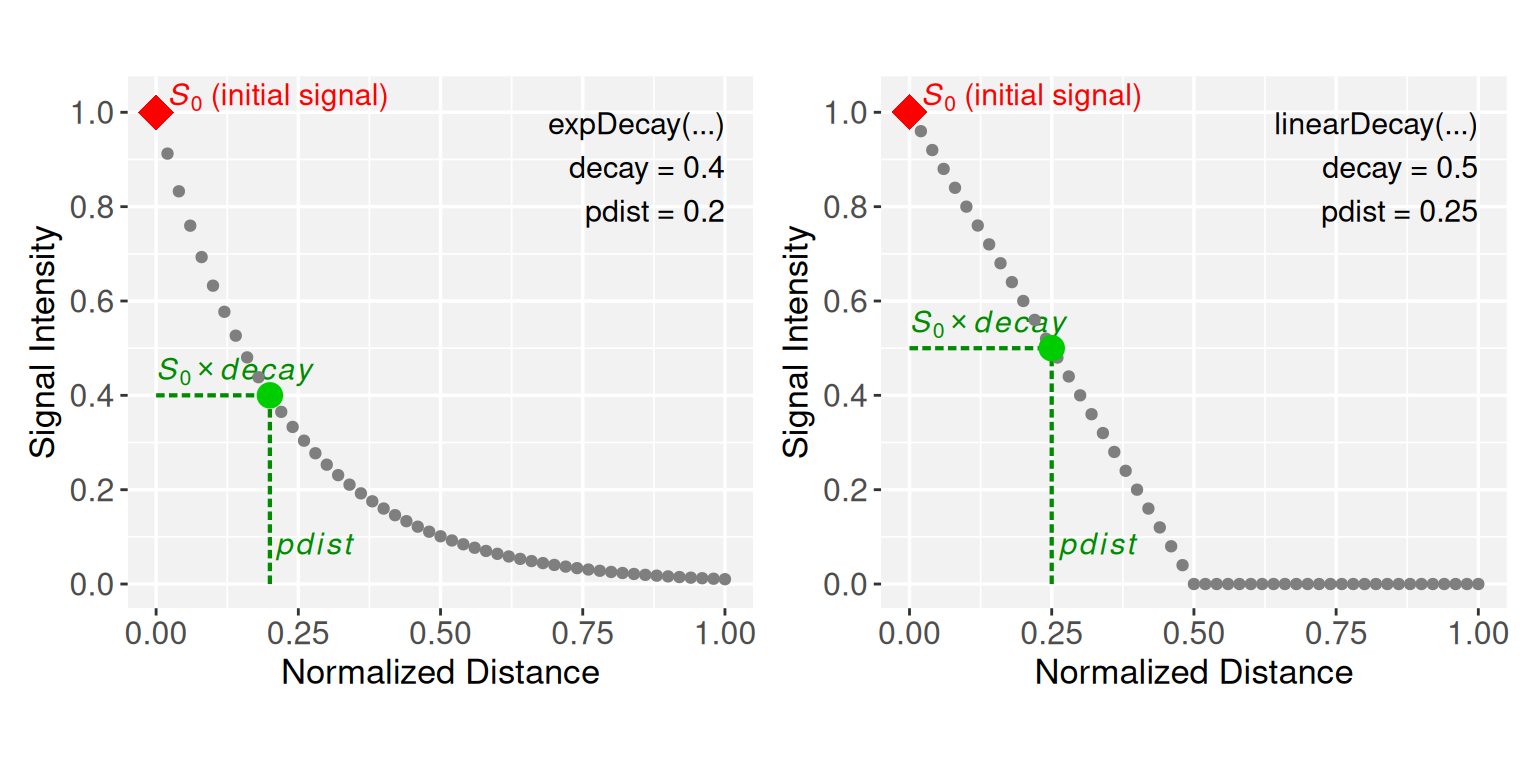
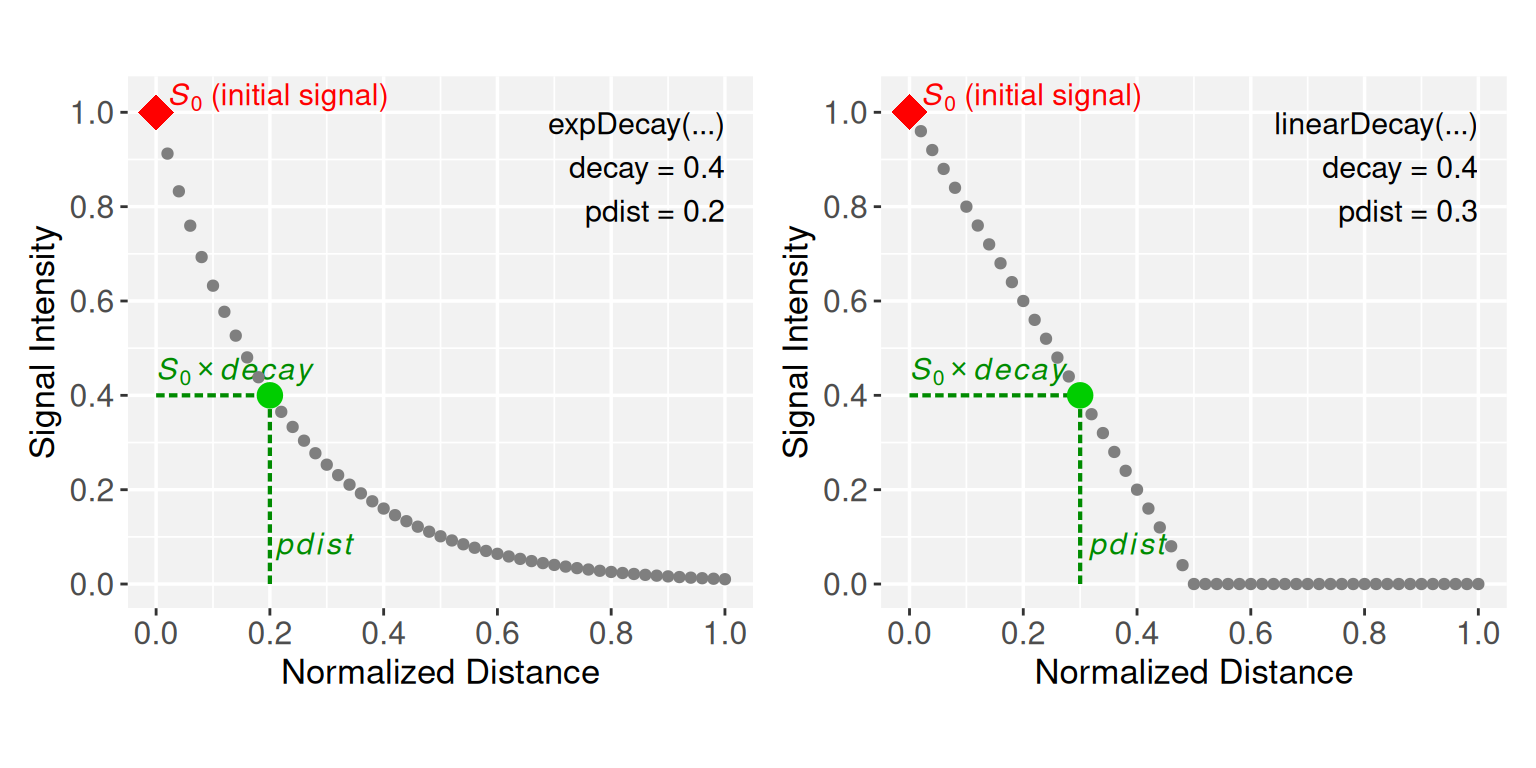
regular maintenance

diff --git a/modeling-signal-decay.html b/modeling-signal-decay.html
@@ -11,7 +11,7 @@
 
 <meta name="author" content="Sysbiolab Team" />
 
-<meta name="date" content="2025-10-18" />
+<meta name="date" content="2025-10-21" />
 
 <title>Modeling signal decay functions</title>
 
@@ -372,7 +372,7 @@ div.tocify {
 
 <h1 class="title toc-ignore">Modeling signal decay functions</h1>
 <h4 class="author">Sysbiolab Team</h4>
-<h4 class="date">2025-10-18</h4>
+<h4 class="date">2025-10-21</h4>
 
 </div>
 
@@ -486,7 +486,7 @@ returns a decay function with customized parameters.</p>
 ##     y &lt;- signal * 0.25^((x/0.75)^2)
 ##     return(y)
 ## }
-## &lt;environment: 0x60fd9e7f98c0&gt;
+## &lt;environment: 0x61ad4f6ceb38&gt;
 ## attr(,&quot;name&quot;)
 ## [1] &quot;weibullDecay&quot;</code></pre>
 <p></br></p>
@@ -494,13 +494,13 @@ returns a decay function with customized parameters.</p>
 attenuation, rerun the <code>weibullDecay()</code> constructor with
 <code>plot = TRUE</code>.</p>
 <pre class="r"><code># Run Weibull constructor with decay = 0.5, shape = 1, and pdist = 0.25
-p1 &lt;- weibullDecay(decay = 0.5, shape = 1, pdist = 0.25, plot = TRUE)
+p1 &lt;- weibullDecay(decay = 0.4, shape = 1, pdist = 0.2, plot = TRUE)
 
 # Run Weibull constructor with decay = 0.5, shape = 2, and pdist = 0.50
-p2 &lt;- weibullDecay(decay = 0.5, shape = 2, pdist = 0.50, plot = TRUE)
+p2 &lt;- weibullDecay(decay = 0.4, shape = 2, pdist = 0.4, plot = TRUE)
 
 # Run Weibull constructor with decay = 0.25, shape = 3, and pdist = 0.75
-p3 &lt;- weibullDecay(decay = 0.25, shape = 4, pdist = 0.75, plot = TRUE)
+p3 &lt;- weibullDecay(decay = 0.2, shape = 4, pdist = 0.8, plot = TRUE)
 
 p1 + p2 + p3</code></pre>
 <p><img src="modeling-signal-decay_files/figure-html/Creating%20a%20decay%20function%20-%204.2-1.png" width="100%" /></p>
@@ -522,7 +522,7 @@ increasingly sigmoidal.</p>
 p1 &lt;- expDecay(decay = 0.4, pdist = 0.2, plot = TRUE)
 
 # Run the linearDecay constructor with decay = 0.5,and pdist = 0.25
-p2 &lt;- linearDecay(decay = 0.5, pdist = 0.25, plot = TRUE)
+p2 &lt;- linearDecay(decay = 0.4, pdist = 0.3, plot = TRUE)
 
 p1 + p2</code></pre>
 <p><img src="modeling-signal-decay_files/figure-html/Creating%20a%20decay%20function%20-%204.3-1.png" width="100%" /></p>
@@ -602,7 +602,7 @@ plotPathwaySpace(ps, marks = &quot;n34&quot;)</code></pre>
 ## other attached packages:
 ## [1] patchwork_1.3.2      igraph_2.2.0         SpotSpace_0.0.2     
 ## [4] PathwaySpace_1.0.3.1 RGraphSpace_1.1.0    ggplot2_4.0.0.9000  
-## [7] remotes_2.5.0        bs4cards_0.1.1      
+## [7] remotes_2.5.0       
 ## 
 ## loaded via a namespace (and not attached):
 ##   [1] deldir_2.0-4           pbapply_1.7-4          gridExtra_2.3         
@@ -610,40 +610,39 @@ plotPathwaySpace(ps, marks = &quot;n34&quot;)</code></pre>
 ##   [7] spatstat.geom_3.6-0    matrixStats_1.5.0      ggridges_0.5.7        
 ##  [10] compiler_4.5.1         png_0.1-8              vctrs_0.6.5           
 ##  [13] reshape2_1.4.4         stringr_1.5.2          pkgconfig_2.0.3       
-##  [16] fastmap_1.2.0          labeling_0.4.3         fontawesome_0.5.3     
-##  [19] promises_1.3.3         rmarkdown_2.30         purrr_1.1.0           
-##  [22] xfun_0.53              cachem_1.1.0           jsonlite_2.0.0        
-##  [25] goftest_1.2-3          later_1.4.4            spatstat.utils_3.2-0  
-##  [28] irlba_2.3.5.1          parallel_4.5.1         cluster_2.1.8.1       
-##  [31] R6_2.6.1               ica_1.0-3              spatstat.data_3.1-8   
-##  [34] stringi_1.8.7          bslib_0.9.0            RColorBrewer_1.1-3    
-##  [37] reticulate_1.43.0      spatstat.univar_3.1-4  parallelly_1.45.1     
-##  [40] lmtest_0.9-40          jquerylib_0.1.4        scattermore_1.2       
-##  [43] Rcpp_1.1.0             knitr_1.50             tensor_1.5.1          
-##  [46] future.apply_1.20.0    zoo_1.8-14             sctransform_0.4.2     
-##  [49] httpuv_1.6.16          Matrix_1.7-4           splines_4.5.1         
-##  [52] tidyselect_1.2.1       abind_1.4-8            rstudioapi_0.17.1     
-##  [55] yaml_2.3.10            spatstat.random_3.4-2  spatstat.explore_3.5-3
-##  [58] codetools_0.2-20       miniUI_0.1.2           listenv_0.9.1         
-##  [61] lattice_0.22-5         tibble_3.3.0           plyr_1.8.9            
-##  [64] shiny_1.11.1           withr_3.0.2            S7_0.2.0              
-##  [67] ROCR_1.0-11            evaluate_1.0.5         Rtsne_0.17            
-##  [70] future_1.67.0          fastDummies_1.7.5      survival_3.8-3        
-##  [73] polyclip_1.10-7        fitdistrplus_1.2-4     pillar_1.11.1         
-##  [76] Seurat_5.3.1.9999      KernSmooth_2.23-26     plotly_4.11.0         
-##  [79] generics_0.1.4         RcppHNSW_0.6.0         sp_2.2-0              
-##  [82] scales_1.4.0           globals_0.18.0         xtable_1.8-4          
-##  [85] glue_1.8.0             lazyeval_0.2.2         tools_4.5.1           
-##  [88] data.table_1.17.8      RSpectra_0.16-2        RANN_2.6.2            
-##  [91] fs_1.6.6               dotCall64_1.2          cowplot_1.2.0         
-##  [94] grid_4.5.1             tidyr_1.3.1            nlme_3.1-168          
-##  [97] cli_3.6.5              spatstat.sparse_3.1-0  spam_2.11-1           
-## [100] viridisLite_0.4.2      dplyr_1.1.4            uwot_0.2.3            
-## [103] gtable_0.3.6           sass_0.4.10            digest_0.6.37         
-## [106] progressr_0.17.0       ggrepel_0.9.6          htmlwidgets_1.6.4     
-## [109] SeuratObject_5.2.0     farver_2.1.2           htmltools_0.5.8.1     
-## [112] lifecycle_1.0.4        httr_1.4.7             mime_0.13             
-## [115] MASS_7.3-65</code></pre>
+##  [16] fastmap_1.2.0          promises_1.3.3         rmarkdown_2.30        
+##  [19] purrr_1.1.0            xfun_0.53              cachem_1.1.0          
+##  [22] jsonlite_2.0.0         goftest_1.2-3          later_1.4.4           
+##  [25] spatstat.utils_3.2-0   irlba_2.3.5.1          parallel_4.5.1        
+##  [28] cluster_2.1.8.1        R6_2.6.1               ica_1.0-3             
+##  [31] spatstat.data_3.1-8    bslib_0.9.0            stringi_1.8.7         
+##  [34] RColorBrewer_1.1-3     reticulate_1.43.0      spatstat.univar_3.1-4 
+##  [37] parallelly_1.45.1      lmtest_0.9-40          jquerylib_0.1.4       
+##  [40] scattermore_1.2        Rcpp_1.1.0             knitr_1.50            
+##  [43] tensor_1.5.1           future.apply_1.20.0    zoo_1.8-14            
+##  [46] sctransform_0.4.2      httpuv_1.6.16          Matrix_1.7-4          
+##  [49] splines_4.5.1          tidyselect_1.2.1       abind_1.4-8           
+##  [52] rstudioapi_0.17.1      yaml_2.3.10            spatstat.random_3.4-2 
+##  [55] codetools_0.2-20       miniUI_0.1.2           spatstat.explore_3.5-3
+##  [58] listenv_0.9.1          lattice_0.22-5         tibble_3.3.0          
+##  [61] plyr_1.8.9             shiny_1.11.1           withr_3.0.2           
+##  [64] S7_0.2.0               ROCR_1.0-11            evaluate_1.0.5        
+##  [67] Rtsne_0.17             future_1.67.0          fastDummies_1.7.5     
+##  [70] survival_3.8-3         polyclip_1.10-7        fitdistrplus_1.2-4    
+##  [73] pillar_1.11.1          Seurat_5.3.1.9999      KernSmooth_2.23-26    
+##  [76] plotly_4.11.0          generics_0.1.4         RcppHNSW_0.6.0        
+##  [79] sp_2.2-0               scales_1.4.0           globals_0.18.0        
+##  [82] xtable_1.8-4           glue_1.8.0             lazyeval_0.2.2        
+##  [85] tools_4.5.1            data.table_1.17.8      RSpectra_0.16-2       
+##  [88] RANN_2.6.2             dotCall64_1.2          cowplot_1.2.0         
+##  [91] grid_4.5.1             tidyr_1.3.1            nlme_3.1-168          
+##  [94] cli_3.6.5              spatstat.sparse_3.1-0  spam_2.11-1           
+##  [97] viridisLite_0.4.2      dplyr_1.1.4            uwot_0.2.3            
+## [100] gtable_0.3.6           sass_0.4.10            digest_0.6.37         
+## [103] progressr_0.17.0       ggrepel_0.9.6          htmlwidgets_1.6.4     
+## [106] SeuratObject_5.2.0     farver_2.1.2           htmltools_0.5.8.1     
+## [109] lifecycle_1.0.4        httr_1.4.7             mime_0.13             
+## [112] MASS_7.3-65</code></pre>
 </div>
 
 
